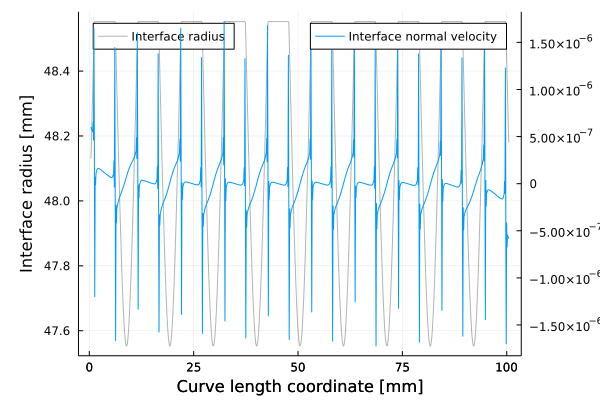
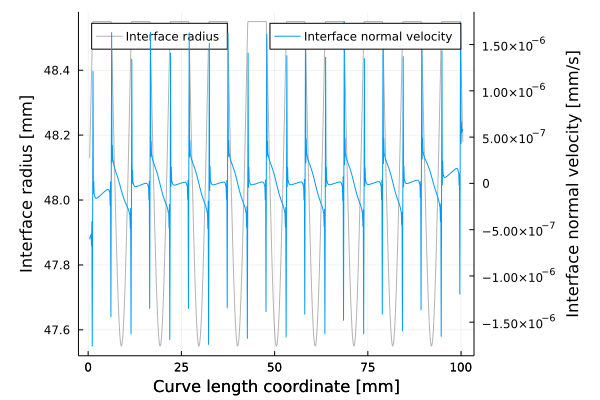
README

diff --git a/README.md b/README.md
@@ -30,7 +30,7 @@ We are going to simulate the CSF flow using finite elements to solve the partial
          alt=""
          style="width:49%">
      <h5 align="center"> 
-    Fig.1 - Real brain scanning as a reference for the model geometry. The blue color indicates the CSF-filled space, the white-brown-ish color the brain tissue and the red parts some of the major blood vessels. The left image shows a full 3D view of the brain tissue surface, while the right image shows a sliced version of it. </h5>[a relative link](brain_simulations)   <h5 align="center"> 
+    Fig.1 - Real brain scanning as a reference for the model geometry. The blue color indicates the CSF-filled space, the white-brown-ish color the brain tissue and the red parts some of the major blood vessels. The left image shows a full 3D view of the brain tissue surface, while the right image shows a sliced version of it.
     </h5>
 </p>
 
@@ -282,14 +282,14 @@ We begin with the simple case of a flat interface and otherwise default geometry
          alt=""
          style="width:49%">
      <h5 align="center"> 
-    Fig.5 - Stokes pressure max (left) and mean (right) variance along 300 evenly distributed radial lines for a decreasing CSF-width. For these simulations we used a flat interface and otherwise default geometry. The complete data is available at data_flat/txt_files/ps_radial_var.txt. [a relative link](brain_simulations). 
+    Fig.5 - Stokes pressure max (left) and mean (right) variance along 300 evenly distributed radial lines for a decreasing CSF-width. For these simulations we used a flat interface and otherwise default geometry. The complete data is available at data_flat/txt_files/ps_radial_var.txt. 
     </h5>
 </p>
 
-From figure $(5)$ we observe that the pressure variance decreases with the width. Considering that the pressure difference across the domain is set to $ \Delta P_S = 133.3224 \ \text{Pa}$ the relative pressure deviation on the pressure profile along a radial line in the worst case scenario (using the maximum variance) with a width close to the typical width of 1.5 is on the order
+From figure $(5)$ we observe that the pressure variance decreases with the width. Considering that the pressure difference across the domain is set to $ \Delta P_S = 133.3224 \ \text{Pa}$ the relative pressure deviation on the pressure profile along a radial line in the worst case scenario (using the maximum variance) with a width close to the typical width of 1.5 mm is on the order
  
 $$
-\frac{\text{max std}}{\Delta p_S} = \frac{\sqrt{\text{max var}}}{\Delta p_S} = \frac{\sqrt{10^{-9}}}{133.3224} \approx 10^{-5} \ \\%,
+\frac{\text{max std}}{\Delta p_S} = \frac{\sqrt{\text{max var}}}{\Delta p_S}  \approx \frac{\sqrt{10^{-9}}}{133.3224} \approx 10^{-5} \ \\%,
 $$
 
 which is considered neglible. We can confirm that the pressure is approximately constant by looking at the pressure profile across a radial line as shown in figure $(6)$.
@@ -321,7 +321,7 @@ In addition we evaluate the absolute normal flow on the interface which is shown
 From figure $(7)$ we see that the absolute normal flow drops qualitatively linearly with width. When comparing the magnitude of the normal flow, close to the typical width 1.5 mm, to the maximum velocity of $700 \ \text{mm/s}$ we get a relative deviation on the order 
 
 $$
-\frac{\text{Norm. flow}}{\text{max} \ u_S} = \frac{10^{-5}}{700} \approx 10^{-6} \ \\%,
+\frac{\text{Norm. flow}}{\text{max} \ u_S}  \approx \frac{10^{-5}}{700} \approx 10^{-6} \ \\%,
 $$
 
 which is again considered neglible.
@@ -330,7 +330,7 @@ which is again considered neglible.
 
 ### Default interface (Interface with wiggles)
 
-We now introduce the wiggles back to the interface and compute similar metrics as done for the flat curve. The pressure variance is shown in figures (---) and (---)
+We now introduce the wiggles back to the interface and compute similar metrics as done for the flat curve. The pressure variance is shown in figure 
 
 <p float>
     <img src="figures/SNS_ps_maxvar_width.png"
@@ -340,33 +340,38 @@ We now introduce the wiggles back to the interface and compute similar metrics a
          alt=""
          style="width:49%">
      <h5 align="center"> 
-    Fig.X - Caption
+    Fig.8 - Stokes pressure max (left) and mean (right) variance along 300 evenly distributed radial lines for a decreasing CSF-width. For these simulations we used a default geometry. The complete data is available at data_single_inner_negsine/txt_files/ps_radial_var.txt. 
     </h5>
 </p>
 
-
-We observe again that the pressure variance decreases with decreasing width, but the order of magnitude is significantly larger than for the flat interface. At the width close to the typical width of 1.5 mm the relative pressure deviation from the mean on a radial line in the worst case scenario (using the maximum variance) with a width close to the typical width of 1.5 mm is roughlt on the order
+We observe again that the pressure variance decreases with width, but the order of magnitude is significantly larger than for the flat interface. At the width close to the typical width the relative pressure deviation on the pressure profile along a radial line in the worst case scenario (using the maximum variance) is on the order
 
 $$
-\frac{\text{max std}}{\Delta p_S} = \frac{\sqrt{\text{max var}}}{\Delta p_S} = \frac{\sqrt{10^{-1}}}{133.3224} \approx  0.1 \ \\%,
+\frac{\text{max std}}{\Delta p_S} = \frac{\sqrt{\text{max var}}}{\Delta p_S}  \approx \frac{\sqrt{10^{-1}}}{133.3224} \approx  0.1 \ \\%.
 $$
 
-This is still to be considered an acceptable margin of error. 
+This is considerible more than for the case of the flat interface but still within an acceptable margin of error. 
 
-Until now we have seen that there is a small difference in the mean variance and then maximum variance. In the case of the default geometry we see that the maximum variance is roughly twice as large as the mean variance. By looking at the the variance for each radial line as a function of angle we can make a visual check to see if someting interesting is going on.
+Another interesting observation that holds applies both for the case of the flat interface in figure $(5)$ and the default geometry in figure $(8)$ is the fact that there is a small but noticeable difference between the max and the mean variances computed over the radial lines. Thus we take a further look on the angular distribution as shown in figure $(9)$.
 
 
 
-<p align="center">
+<p float>
+    <img src="figures/FLAT_ps_var_angle.png"
+         alt=""
+         style="width:49%">
     <img src="figures/SNS_ps_var_angle.png"
          alt=""
-         style="width:60%">
-    <h5 align="center"> 
-    Fig.X - Caption
+         style="width:49%">
+     <h5 align="center"> 
+    Fig.9 - Stokes pressure variance on each radial line as a function of angular coordinates a long the Stokes domain. On the left we have the flat interface case and on the right the default geometry case. 
     </h5>
 </p>
 
-By looking at figure (...) we see qualitatively that the variance spikes following the frequiency of the interface sinewaves. In figure (...) we see the absolute normal flow.
+figure $(9)$ we do not se any obvious patterns in the distribution for the flat interface case, but for the default geomtry case we see a  qualitatively match between the variance spikes and the frequiency of the interface sinewaves. This hints to the fact that the local interface geomtry affects the local pressure profile. 
+
+
+In figure $(10)$ we see the absolute normal flow.
 
 
 <p align="center">
@@ -374,17 +379,17 @@ By looking at figure (...) we see qualitatively that the variance spikes followi
          alt=""
          style="width:60%">
     <h5 align="center"> 
-    Fig.X - Caption
+    Fig.10 - Absolute Stokes normal flow on the interface as a function CSF-width. For these simulations we used the default geometry. The complete data is available in the folder data_single_inner_negsine/txt_files/us_nflow.txt.
     </h5>
 </p>
 
-Form figure (...) we again see an decreasing trend for the normal flow when width decreases. Around the typical width we get a normal flow aorund $5\cdot10^{-4} \ \text{mm/s}$ compared which compared to a maximum flow velocity around $700 \ \text{mm/s}$ a relative deviation 
+Form figure $(10)$ we observe again a decreasing trend for the normal flow when width decreases. Around the typical width we get a normal flow of roughly $5\cdot10^{-4} \ \text{mm/s}$ which in comparison to a maximum flow velocity around $700 \ \text{mm/s}$ yields a relative deviation 
 
 $$
-\frac{\text{Norm. flow}}{\text{max} \ u_S} = \frac{5\cdot10^{-4} }{500} \approx 8,3 \cdot 10^{-5} \ \\%,
+\frac{\text{Norm. flow}}{\text{max} \ u_S} \approx \frac{5\cdot10^{-4} }{500} \approx \cdot 10^{-4} \ \\%.
 $$
 
-Thus we are still getting promising results for the possibility to make dimension reduction model. By looking at the simulation for a width of $1.45 \ \text{mm}$ we see that the CSF normal flows mainly happens around the edges of each negative sinewave dimple (figure (...)). We also take a look at the direction of flow in such a dimple (see figure (...)) 
+Thus we are still getting neglible deviations. By looking at the simulation for a width of $1.45 \ \text{mm}$ we see that the CSF normal flow mainly happens around the edges of each negative sinewave dimple as seen in figure $(11)$. We also take a look at the direction of flow in such a dimple which is shown in figure $(12)$. 
 
 
 <p align="center">
@@ -392,10 +397,9 @@ Thus we are still getting promising results for the possibility to make dimensio
          alt=""
          style="width:60%">
     <h5 align="center"> 
-    Fig.X - Caption
+    Fig.11 - Direction and magnitude of Stokes normal flow along interface for a simulation at width $1.45 \ \text{mm}$ using the default geometry. The x-axis denote the position along the interface in terms of curve length going from left to right (in flow direction). The left y-axis corresponding to the grey lines show the radial position of the interface (perturbations) and serves as reference for the interface geometry. The right y-axis shows the Stokes CSF normal flow. A positive value means that it flows through the interface from Stokes to Darcy domain and vice versa. 
     </h5>
 </p>
-
 
 
 <p align="center">
@@ -403,17 +407,19 @@ Thus we are still getting promising results for the possibility to make dimensio
          alt=""
          style="width:60%">
     <h5 align="center"> 
-    Fig.X -  (not scaled magnitude).
+    Fig.12 - A ParaView visualization of the CSF flow in the Stokes domain in a dimple of the default geometry using a width of $1.45 \ \text{mm}$ (same simulation as referred to in figure $(11)$. The magnitude (us Magnitude) of the flow is shown as a heatmap and the direction of the flow field is indicated with white vector arrows (not scaled by magnitude). The arrow population is randomly generated. The brown-ish color in the bottom denote the Darcy domain without any data representations applied. 
     </h5>
 </p>
+ 
+From figure $(11)$ we obserbe that the CSF flows into the brain tissue mainly during its path from the middle of the sinewave dimple and all the way up to the hard square edge (notice that the flow direction is left to right). We have no information about the velocity field in the brain tissue, but by combinning the information from figure $(11)$ and $(12)$ one might argue that we have two kinds of distint flow patterens: 
 
-We can see that the CSF flows into the the brain tissue during its path from the middle of the sinewave dimple and all the way up to the hard square edge. Unfortunately we have no information about the velocity field in the brain tissue, but by combinning the information from figure (---) and (---) one might argue that we have two kinds of flows: First we observe that CSF is cutting the cornes of square edges, meaning that the in-flow to the brain tissue increases just before meeting a square edge but then immediately reverses after the edge. However, bu comparing the sizes of the in and out-flow we can conclude that some of CSF that flows inte the brain tissue from the bottom of the dimple and forward makes it all the way through to the beginning of the next dimple. This makes sense as not all the CSF have time to avoid the obstacle and is forced to penetrate it rather than go around. 
+1. First, we observe that the CSF is cutting the cornes of the square edges, which is deduced from the fact that the in-flow to the brain tissue increases just before meeting a square edge but then immediately reverses after the edge. 
 
+2. Secondly, by comparing the sizes of the in and out-flow we can deduce qualitatively that some of CSF makes its way all the way though the brain tissue from dimple to dimple. Intuitively we can make sense of this as the phenonema that not all the CSF "have time" to avoid the obstacle (brain tissue with reduced flow properties) and is forced to penetrate it rather than go around. 
 
 ### Varying interface wavelength and amplitude
 
-Due to the promising result for the default brian geometry we invistigate the consequences of more extreme interface models. That is, we vary the wavelength in the interval [1,  50] mm with default amplitude of 1 mm and vary the ampltidue in the interval [0.1, 5] mm keeping the default wavelength of 10 mm. The results are shown in figure (...) and (.).
-
+Due to the so far promising result for the default brian geometry we invistigate the consequences of more extreme interface models. That is, we vary the wavelength in the interval [1,  50] mm keeping the default amplitude of 1 mm and vary the ampltidue in the interval [0.1, 5] mm keeping the default wavelength of 10 mm. We keep otherwise specified default geometry parameters. The results of these variations are shown in figure $(13)$.
 
 <p float>
     <img src="figures/MNS_lambda_ps_maxvar_width.png"
@@ -431,15 +437,12 @@ Due to the promising result for the default brian geometry we invistigate the co
          alt=""
          style="width:49%">
      <h5 align="center"> 
-    Fig.X - Multi caption
+    Fig.13 - Stokes pressure max variance (top row) and absolute Stokes normal flow on the interface (bottom row), both as a function of CSF-width for various interface wavelengths keeping amplitude $A = 1 \ \text{mm}$ (left column) and various interface amplitudes keeping wavelength $\lambda = 10 \ \text{mm}$ (right column). The complete data is available at {data_inner_negsines_λ.../data_inner_negsines_A...)/{ps_radial_var.txt,us_nflow.txt}, where the dot replaces the wavelength and ampltidue values. 
     </h5>
 </p>
 
 
-We see mainly that a more extreme surface, low wavelength (high frequency) and high amplitude, gives raise to a less constant Stokes pressure profile and more normal flow though the interface. However, the only exception is the $\lambda = 1 \ \text{mm}$ simulation in figure (...). It seems that the small wavelength makes it *difficult* for the CSF to reach the bottom of the dimples, and the surface becomes pseudo flat. By looking at the velocity magnitude in figure (...) we see that there is not much flow in dimples in the 1 mm wavelength simulation compared to that of the default 10 mm wavelength.
-
-Considering the worst case scenario of the above simulations we hit a maximum deviation (pressure) around 0.3 \%.
-
+From figure $(13)$ we mainly observe that a more extreme interface modelling, low wavelength (high frequency) and high amplitude, gives raise to a less constant Stokes pressure profile and more normal flow though the interface. However, the only exception is the $\lambda = 1 \ \text{mm}$ case the top left subfigure of figure $(13)$. Here it seems like the small wavelength makes it *difficult* for the CSF to reach the bottom of the dimples, and the interface becomes pseudo flat. By looking at the velocity magnitude in figure $(14)$ we see that flow velocity is rather low in the dimples for the 1 mm wavelength case (left) compared to the that of the 10 mm wavelength in the default geometry (right).
 
 <p float>
     <img src="figures/MNS_10mm_us_heatmap.png"
@@ -449,19 +452,16 @@ Considering the worst case scenario of the above simulations we hit a maximum de
          alt=""
          style="width:49%">
      <h5 align="center"> 
-    Fig.X - 10 mm left (default) and 1 mm right
+    Fig.14 - Stokes velocity magnitude (us Magnitude) for simulations of CSF-width $1.45 \ \text{mm}$ with a 1 mm wavelength interface (left) and a 10 mm wavelength interface (right) and otherwise defaul geometry.
     </h5>
 </p>
 
 
+Considering the worst case pressure variance from the results shown in figure $(13)$ we still find the deviations to lie at a maximum of 0.3 \%, which is a fairly positive result for the prospects of dimension reduction. 
+
 ### Varying permeability 
 
-Finally we try to invistigate the consequences of lower permeability. 
-Test interval: $[10^{-16},10^{-12}] \ \text{m}^2$.
-
-Due to the increased easy of flow in the brain tissue this should make things worse. 
-
-
+Finally we invistigate the consequences of varying the permeability $\mu$ governing the percolation flow. We do so by repeating previous evaluations for the default geomtry with permabilities in the range $[10^{-16},10^{-12}] \ \text{m}^2$. The results are shown in figure $(15)$
 
 <p float>
     <img src="figures/Kappa_ps_maxvar_width.png"
@@ -471,14 +471,16 @@ Due to the increased easy of flow in the brain tissue this should make things wo
          alt=""
          style="width:49%">
      <h5 align="center"> 
-    Fig.X - 
+    Fig.15 - Stokes pressure max variance (left) and absolute Stokes normal flow on the interface (right), both as a function of CSF-width for various permeability. The complete data is available at...
     </h5>
 </p>
 
-
+From figure $(15)$ we observe that the pressure variance is seemingly uneffected by the change in permeability in the four orders test range. Regarding the normal flow we se that it increases as the permeability is reduced. This is in agreement with expectations considering that a lower permeability gives rise to a less resistant percolation flow. However, surprinsgsly enough this did not introduce any significant deviations greater than already seen from the variations on the interface shown in figure $(13)$
 
 
 ### 3D brain simulations
+
+
 
 stress free config and projection vector for tangential parts. 
 
